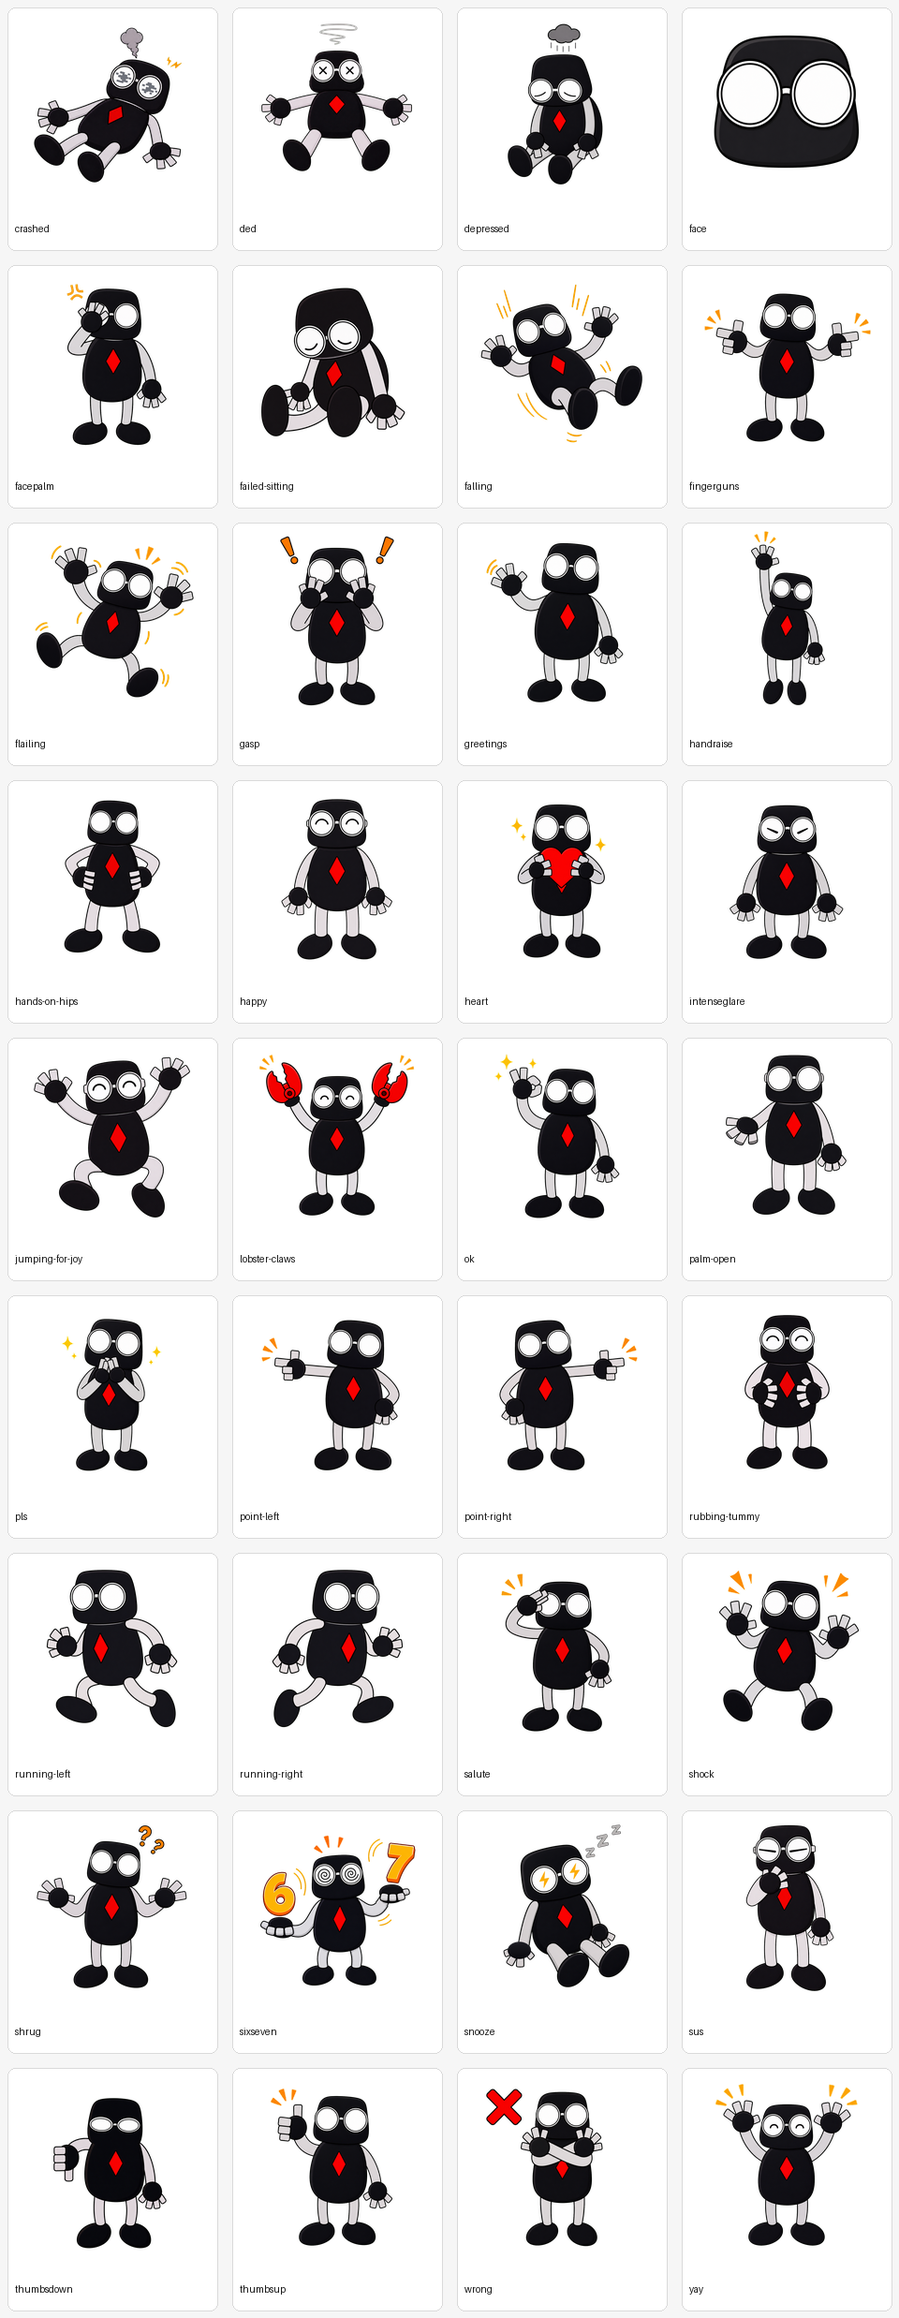
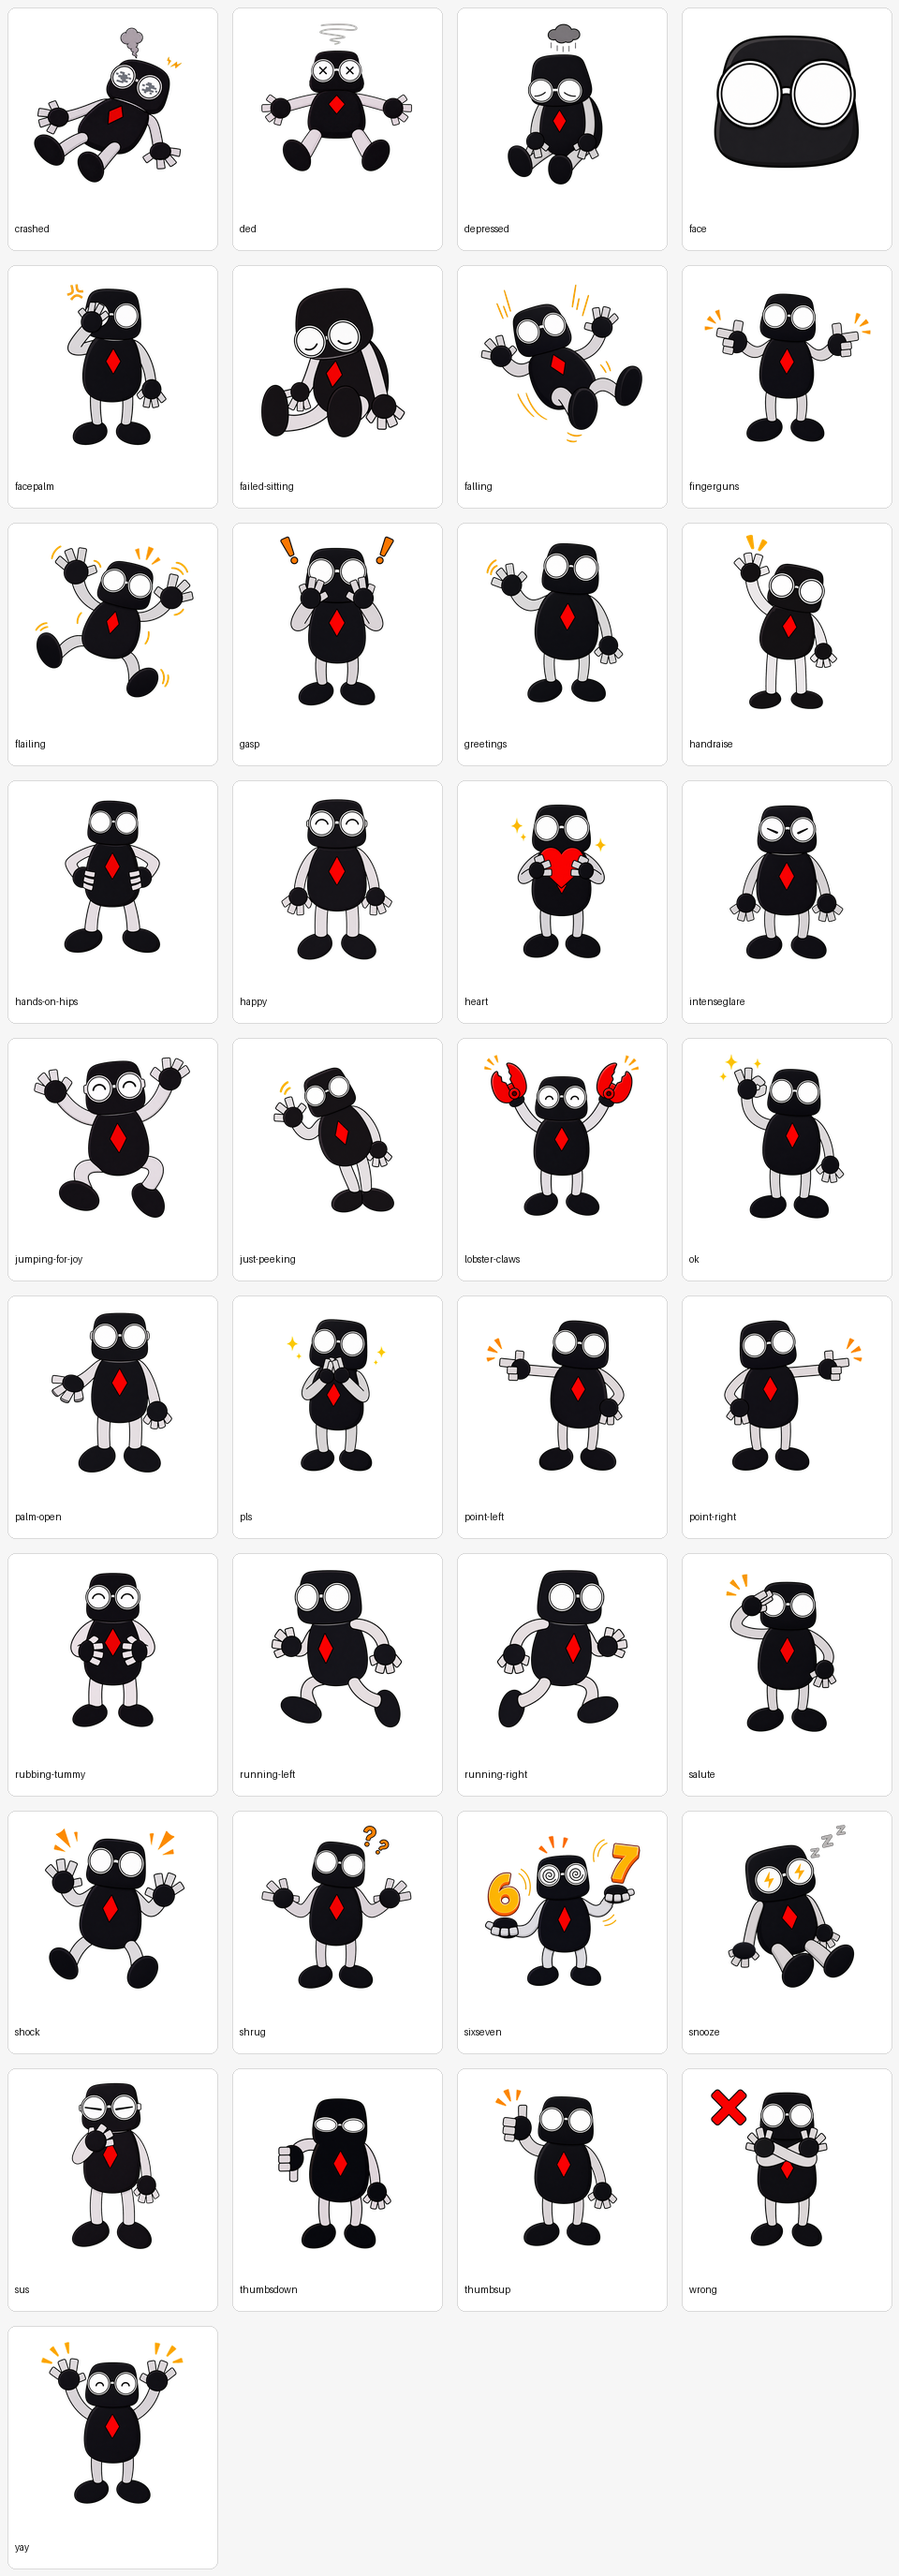
feat: add just-peeking and refresh handraise sticker

diff --git a/stickers/README.md b/stickers/README.md
@@ -2,7 +2,7 @@
 
 Use these transparent PNGs as the current locked rectangular-finger T Krobot sticker set.
 
-- Count: 36 stickers.
+- Count: 37 stickers.
 - Size: 1254 x 1254 RGBA PNGs.
 - Catalogue: `stickers/manifest.json` (slug, description, tags, source path).
 - Full overview sheet: `stickers/contact-sheet.png`.
@@ -21,12 +21,13 @@ Use these transparent PNGs as the current locked rectangular-finger T Krobot sti
 - `flailing.png` — Panicked flailing limbs. _motion, reaction_
 - `gasp.png` — Surprise with hands on cheeks and exclamation marks. _emotion, reaction_
 - `greetings.png` — Friendly wave / hello. _gesture, social_
-- `handraise.png` — Raised hand as if volunteering or asking a question. _gesture, social_
+- `handraise.png` — Eager volunteering with a raised hand, tilted head and longer legs. _gesture, social_
 - `hands-on-hips.png` — Confident arms-akimbo stance. _gesture, pose_
 - `happy.png` — Happy expression with upside-down-U eyes. _emotion, happy_
 - `heart.png` — Holding or presenting a heart. _emotion, social_
 - `intenseglare.png` — Narrow glare slits for stern focus. _emotion, reaction_
 - `jumping-for-joy.png` — Jumping celebration with happy eyes. _motion, happy_
+- `just-peeking.png` — Leaning sideways with a tentative wave, just peeking in. _gesture, social, curious_
 - `lobster-claws.png` — Raising red mechanical lobster claws to either side. _gesture, fun, mechanical_
 - `ok.png` — OK / acknowledgement hand sign. _gesture, approval_
 - `palm-open.png` — Open palm, expectant hand-off or waiting pose. _gesture, social_

diff --git a/archive/chroma-key-sources/2026-09-12-approved/README.md b/archive/chroma-key-sources/2026-09-12-approved/README.md
@@ -1,0 +1,9 @@
+# Approved sticker revisions — 12 September 2026
+
+Generated with the built-in image tool and approved in conversation.
+
+- `just-peeking.png`: leaning wave, with head and glasses reduced together.
+- `handraise.png`: eager volunteer with the final longer-leg revision.
+- `handraise-previous.png`: exact previous transparent master for recovery.
+
+Green sources were keyed locally into the 1254×1254 RGBA masters. The previous handraise chroma source remains at `../handraise.png`.
